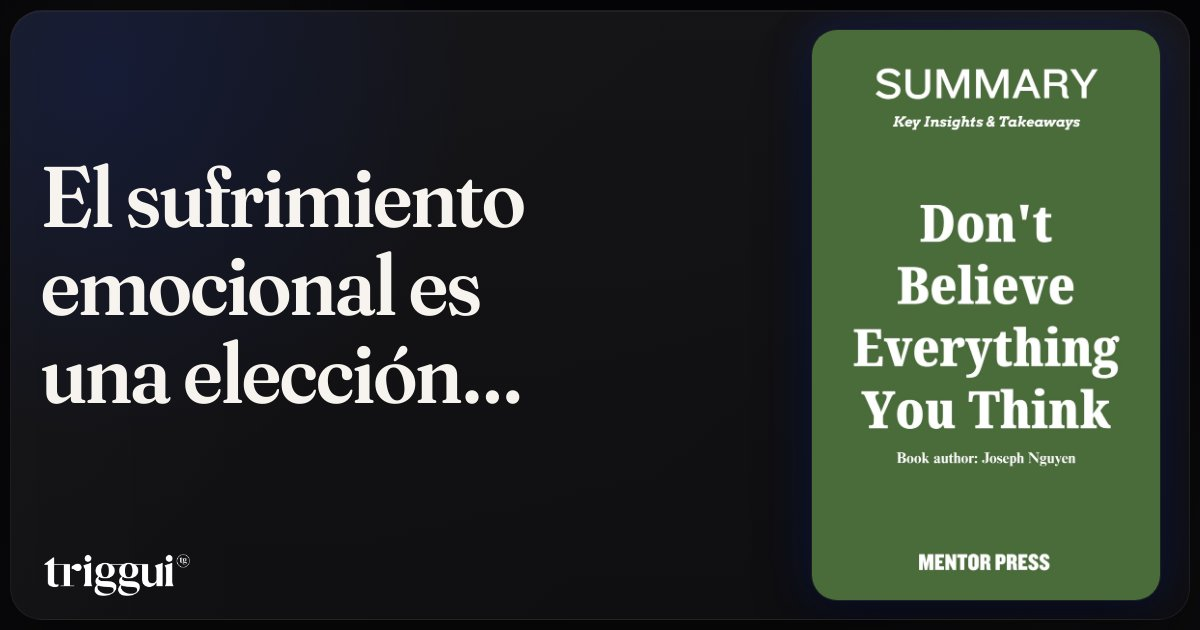
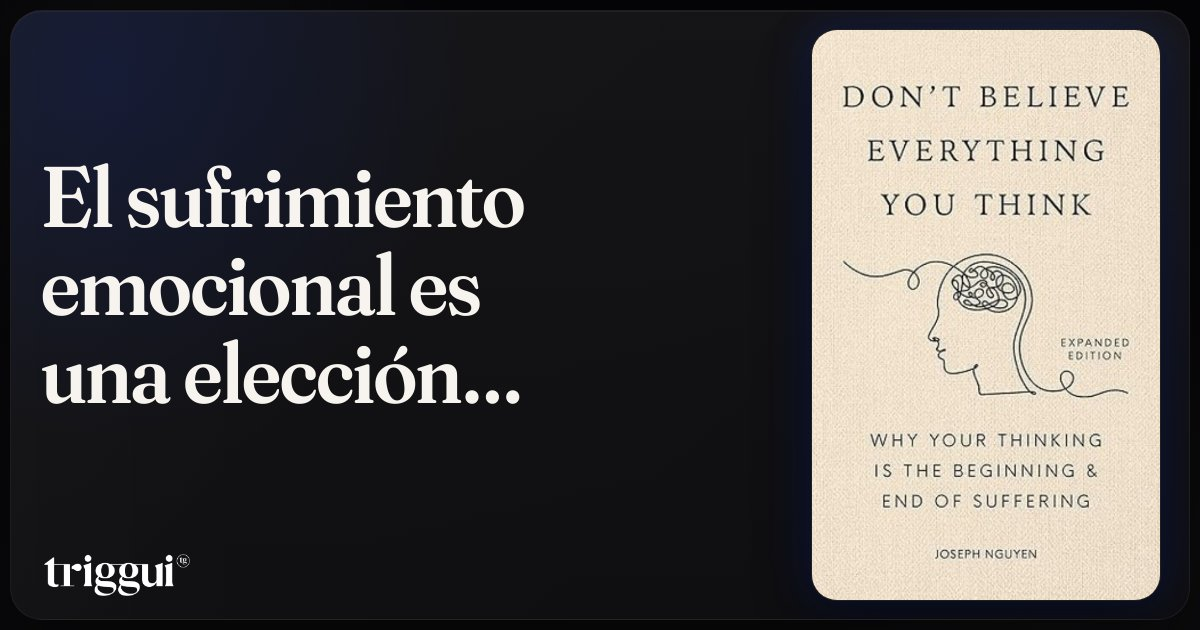
🔁 reconstruir — don-t-believe-everything-you-think

Changed region(s): [[0.6783, 0.0302, 0.9867, 0.9651]]

diff --git a/public/t/don-t-believe-everything-you-think/en/index.html b/public/t/don-t-believe-everything-you-think/en/index.html
@@ -942,7 +942,7 @@ body.tg-tarjeta .tg-cta{display:none !important}
 </div>
 
 <script>
-const state = {"id": "don-t-believe-everything-you-think", "titulo": "Don't Believe Everything You Think", "autor": "Joseph Nguyen", "palabra": "La raíz del sufrimiento: entender y transformar", "descripcion": "La mente humana es un campo de batalla donde el dolor es inevitable, pero el sufrimiento es opcional. Esto significa que, aunque la experiencia del dolor puede ser parte de nuestra vida, la manera en que respondemos a ese dolor define nuestro sufrimiento. Aprender a distinguir entre ambos es fundamental para alcanzar la libertad mental y transformar nuestra experiencia humana.", "palabras": ["libertad", "transformación", "conciencia", "sufrimiento"], "frases": ["🌓 ¿Cuánto tiempo pasas sufriendo por pensamientos que no reflejan la realidad?", "🌬 Respira hondo y pregunta: ¿qué creencias me están limitando en este momento?", "🔭 Imagina un espacio donde el dolor existe, pero el sufrimiento no tiene cabida.", "🌓 Liberarse del sufrimiento es el primer paso hacia una vida plena."], "colores": ["#7E95F1", "#E8C430", "#1C13AE", "#60650B"], "textColors": ["#FFFFFF", "#000000", "#FFFFFF", "#FFFFFF"], "ogImage": "https://app.triggui.com/t/don-t-believe-everything-you-think/og_en.jpg", "portada": "https://is1-ssl.mzstatic.com/image/thumb/Publication221/v4/d7/32/ad/d732ad2d-acd6-b3f1-5b83-457a73304ab3/f4519ffb-28c5-4e56-be24-0e9195bb1556_cover_image.jpg/3000x3000bb.jpg", "tagline": "", "frases_en": ["🌅 Visualize your suffering as a cloud. It blocks the sun but can drift away.", "🏛 Challenge your thoughts. What if they are not the truth?", "🌊 Imagine letting go of the weight of your thoughts, feeling lighter and freer.", "🌓 In every moment, we hold the power to choose how we feel."], "palabras_en": ["freedom", "suffering", "understanding", "pain"], "i18nEn": {"cardTitle": "Understanding Emotional Suffering", "top": "<span class=\"tg-hl\">The human mind is a battleground where pain is inevitable, yet suffering is optional.</span> This means that while the experience of pain may be a part of our lives, how we respond to that pain defines our suffering. Learning to distinguish between the two is crucial for achieving true freedom of mind.", "sub": "How can we achieve mental freedom?", "bot": "<span class=\"tg-hl\">By recognizing that suffering is a mental construct rather than a state imposed by reality, we begin to free ourselves</span>. True mental freedom lies in understanding that we have the power to create our desired life, thus transforming our experience of the world."}, "bocadoEcoPool": [{"phrase": "🌓 ¿Cuánto tiempo pasas sufriendo por pensamientos que no reflejan la realidad?", "rol": "abrir", "animo": 0.5, "origin": "edition_block_es"}, {"phrase": "🌬 Respira hondo y pregunta: ¿qué creencias me están limitando en este momento?", "rol": "profundizar", "animo": 0.3, "origin": "edition_block_es"}, {"phrase": "🔭 Imagina un espacio donde el dolor existe, pero el sufrimiento no tiene cabida.", "rol": "resonar", "animo": 0.4, "origin": "edition_block_es"}, {"phrase": "🌓 Liberarse del sufrimiento es el primer paso hacia una vida plena.", "rol": "aterrizar", "animo": 0.4, "origin": "edition_block_es"}, {"phrase": "✨ El sufrimiento emocional es una elección, no una condena.", "rol": "aterrizar", "animo": 0.4, "origin": "og_phrase_es"}, {"phrase": "⚓ ¿Qué pasaría si dejaras de creer todo lo que piensas?", "rol": "abrir", "animo": 0.5, "origin": "og_phrase_es"}, {"phrase": "🔁 Identifica la raíz de tu sufrimiento. Solo así podrás liberarte.", "rol": "profundizar", "animo": 0.3, "origin": "og_phrase_es"}, {"phrase": "🛡 El dolor puede ser inevitable, pero el sufrimiento es opcional: elige.", "rol": "resonar", "animo": 0.4, "origin": "og_phrase_es"}], "bocadoEcoPool_en": ["🌅 Visualize your suffering as a cloud. It blocks the sun but can drift away.", "🏛 Challenge your thoughts. What if they are not the truth?", "🌊 Imagine letting go of the weight of your thoughts, feeling lighter and freer.", "🌓 In every moment, we hold the power to choose how we feel."], "musica": [{"id": "847718927", "cancion": "Gymnopedie No.1", "artista": "Erik Satie", "album": "Gymnopedie No.1 - Single", "genero": "Alternativa", "dur": 190, "preview": "https://audio-ssl.itunes.apple.com/itunes-assets/AudioPreview211/v4/e8/3f/57/e83f57f3-68a1-f88f-d7ad-741e12e48c6d/mzaf_14596551055740884645.plus.aac.p.m4a", "link": "https://music.apple.com/mx/album/gymnopedie-no-1/847714522?i=847718927&uo=4", "art": "https://is1-ssl.mzstatic.com/image/thumb/Music124/v4/fd/fe/23/fdfe23c0-ed10-4485-a8e1-702a99a8336c/859712317261_cover.tif/600x600bb.jpg", "armonia": 5, "rol": "aterrizar", "pie": "Refugio en calma — pieza elegida a mano para leer sin prisa.", "frase_eco": "respira; la página espera"}, {"id": "1597454856", "cancion": "Spiegel im Spiegel", "artista": "Duo Cassadó", "album": "Arvo Pärt: Spiegel im Spiegel - Single", "genero": "Clásica", "dur": 434, "preview": "https://audio-ssl.itunes.apple.com/itunes-assets/AudioPreview126/v4/46/af/93/46af93c3-afc0-14af-8a82-5dbdbe531b74/mzaf_10824783644429950310.plus.aac.p.m4a", "link": "https://music.apple.com/mx/album/spiegel-im-spiegel/1597454542?i=1597454856&uo=4", "art": "https://is1-ssl.mzstatic.com/image/thumb/Music126/v4/b8/3d/09/b83d09d2-019c-8b88-34a6-9c7d10df33be/190296323201.jpg/600x600bb.jpg", "armonia": 5, "rol": "aterrizar", "pie": "Refugio en calma — pieza elegida a mano para leer sin prisa.", "frase_eco": "respira; la página espera"}, {"id": "508378566", "cancion": "Peer Gynt Suite No. 1, Op. 46. Incidental music to Peer Gynt by Ibsen: Peer Gynt Suite n.º", "artista": "WDR Sinfonieorchester Köln & Eivind Aadland", "album": "Grieg: Complete Symphonic Works, Vol. I", "genero": "Clásica", "dur": 244, "preview": "https://audio-ssl.itunes.apple.com/itunes-assets/AudioPreview115/v4/06/8e/08/068e0886-ebda-9143-00b4-9547d07de54f/mzaf_7803377125337725950.plus.aac.p.m4a", "link": "https://music.apple.com/mx/album/peer-gynt-suite-no-1-op-46-incidental-music-to-peer/508378315?i=508378566&uo=4", "art": "https://is1-ssl.mzstatic.com/image/thumb/Music20/v4/b7/34/c7/b734c7f6-1f61-91b3-0ace-962ce4a55211/cover.jpg/600x600bb.jpg", "armonia": 5, "rol": "profundizar", "pie": "La música clásica puede acompañar la reflexión sobre el sufrimiento y la libertad.", "frase_eco": "🔁 Identifica la raíz de tu sufrimiento. Solo así podrás liberarte."}], "titulo_en": "Don't Believe Everything You Think"};
+const state = {"id": "don-t-believe-everything-you-think", "titulo": "Don't Believe Everything You Think", "autor": "Joseph Nguyen", "palabra": "La raíz del sufrimiento: entender y transformar", "descripcion": "La mente humana es un campo de batalla donde el dolor es inevitable, pero el sufrimiento es opcional. Esto significa que, aunque la experiencia del dolor puede ser parte de nuestra vida, la manera en que respondemos a ese dolor define nuestro sufrimiento. Aprender a distinguir entre ambos es fundamental para alcanzar la libertad mental y transformar nuestra experiencia humana.", "palabras": ["libertad", "transformación", "conciencia", "sufrimiento"], "frases": ["🌓 ¿Cuánto tiempo pasas sufriendo por pensamientos que no reflejan la realidad?", "🌬 Respira hondo y pregunta: ¿qué creencias me están limitando en este momento?", "🔭 Imagina un espacio donde el dolor existe, pero el sufrimiento no tiene cabida.", "🌓 Liberarse del sufrimiento es el primer paso hacia una vida plena."], "colores": ["#7E95F1", "#E8C430", "#1C13AE", "#60650B"], "textColors": ["#FFFFFF", "#000000", "#FFFFFF", "#FFFFFF"], "ogImage": "https://app.triggui.com/t/don-t-believe-everything-you-think/og_en.jpg", "portada": "https://covers.openlibrary.org/b/isbn/9798986406503-L.jpg", "tagline": "", "frases_en": ["🌅 Visualize your suffering as a cloud. It blocks the sun but can drift away.", "🏛 Challenge your thoughts. What if they are not the truth?", "🌊 Imagine letting go of the weight of your thoughts, feeling lighter and freer.", "🌓 In every moment, we hold the power to choose how we feel."], "palabras_en": ["freedom", "suffering", "understanding", "pain"], "i18nEn": {"cardTitle": "Understanding Emotional Suffering", "top": "<span class=\"tg-hl\">The human mind is a battleground where pain is inevitable, yet suffering is optional.</span> This means that while the experience of pain may be a part of our lives, how we respond to that pain defines our suffering. Learning to distinguish between the two is crucial for achieving true freedom of mind.", "sub": "How can we achieve mental freedom?", "bot": "<span class=\"tg-hl\">By recognizing that suffering is a mental construct rather than a state imposed by reality, we begin to free ourselves</span>. True mental freedom lies in understanding that we have the power to create our desired life, thus transforming our experience of the world."}, "bocadoEcoPool": [{"phrase": "🌓 ¿Cuánto tiempo pasas sufriendo por pensamientos que no reflejan la realidad?", "rol": "abrir", "animo": 0.5, "origin": "edition_block_es"}, {"phrase": "🌬 Respira hondo y pregunta: ¿qué creencias me están limitando en este momento?", "rol": "profundizar", "animo": 0.3, "origin": "edition_block_es"}, {"phrase": "🔭 Imagina un espacio donde el dolor existe, pero el sufrimiento no tiene cabida.", "rol": "resonar", "animo": 0.4, "origin": "edition_block_es"}, {"phrase": "🌓 Liberarse del sufrimiento es el primer paso hacia una vida plena.", "rol": "aterrizar", "animo": 0.4, "origin": "edition_block_es"}, {"phrase": "✨ El sufrimiento emocional es una elección, no una condena.", "rol": "aterrizar", "animo": 0.4, "origin": "og_phrase_es"}, {"phrase": "⚓ ¿Qué pasaría si dejaras de creer todo lo que piensas?", "rol": "abrir", "animo": 0.5, "origin": "og_phrase_es"}, {"phrase": "🔁 Identifica la raíz de tu sufrimiento. Solo así podrás liberarte.", "rol": "profundizar", "animo": 0.3, "origin": "og_phrase_es"}, {"phrase": "🛡 El dolor puede ser inevitable, pero el sufrimiento es opcional: elige.", "rol": "resonar", "animo": 0.4, "origin": "og_phrase_es"}], "bocadoEcoPool_en": ["🌅 Visualize your suffering as a cloud. It blocks the sun but can drift away.", "🏛 Challenge your thoughts. What if they are not the truth?", "🌊 Imagine letting go of the weight of your thoughts, feeling lighter and freer.", "🌓 In every moment, we hold the power to choose how we feel."], "musica": [{"id": "847718927", "cancion": "Gymnopedie No.1", "artista": "Erik Satie", "album": "Gymnopedie No.1 - Single", "genero": "Alternativa", "dur": 190, "preview": "https://audio-ssl.itunes.apple.com/itunes-assets/AudioPreview211/v4/e8/3f/57/e83f57f3-68a1-f88f-d7ad-741e12e48c6d/mzaf_14596551055740884645.plus.aac.p.m4a", "link": "https://music.apple.com/mx/album/gymnopedie-no-1/847714522?i=847718927&uo=4", "art": "https://is1-ssl.mzstatic.com/image/thumb/Music124/v4/fd/fe/23/fdfe23c0-ed10-4485-a8e1-702a99a8336c/859712317261_cover.tif/600x600bb.jpg", "armonia": 5, "rol": "aterrizar", "pie": "Refugio en calma — pieza elegida a mano para leer sin prisa.", "frase_eco": "respira; la página espera"}, {"id": "1597454856", "cancion": "Spiegel im Spiegel", "artista": "Duo Cassadó", "album": "Arvo Pärt: Spiegel im Spiegel - Single", "genero": "Clásica", "dur": 434, "preview": "https://audio-ssl.itunes.apple.com/itunes-assets/AudioPreview126/v4/46/af/93/46af93c3-afc0-14af-8a82-5dbdbe531b74/mzaf_10824783644429950310.plus.aac.p.m4a", "link": "https://music.apple.com/mx/album/spiegel-im-spiegel/1597454542?i=1597454856&uo=4", "art": "https://is1-ssl.mzstatic.com/image/thumb/Music126/v4/b8/3d/09/b83d09d2-019c-8b88-34a6-9c7d10df33be/190296323201.jpg/600x600bb.jpg", "armonia": 5, "rol": "aterrizar", "pie": "Refugio en calma — pieza elegida a mano para leer sin prisa.", "frase_eco": "respira; la página espera"}, {"id": "508378566", "cancion": "Peer Gynt Suite No. 1, Op. 46. Incidental music to Peer Gynt by Ibsen: Peer Gynt Suite n.º", "artista": "WDR Sinfonieorchester Köln & Eivind Aadland", "album": "Grieg: Complete Symphonic Works, Vol. I", "genero": "Clásica", "dur": 244, "preview": "https://audio-ssl.itunes.apple.com/itunes-assets/AudioPreview115/v4/06/8e/08/068e0886-ebda-9143-00b4-9547d07de54f/mzaf_7803377125337725950.plus.aac.p.m4a", "link": "https://music.apple.com/mx/album/peer-gynt-suite-no-1-op-46-incidental-music-to-peer/508378315?i=508378566&uo=4", "art": "https://is1-ssl.mzstatic.com/image/thumb/Music20/v4/b7/34/c7/b734c7f6-1f61-91b3-0ace-962ce4a55211/cover.jpg/600x600bb.jpg", "armonia": 5, "rol": "profundizar", "pie": "La música clásica puede acompañar la reflexión sobre el sufrimiento y la libertad.", "frase_eco": "🔁 Identifica la raíz de tu sufrimiento. Solo así podrás liberarte."}], "titulo_en": "Don't Believe Everything You Think"};
 const TG_COVER_SRC = "https://app.triggui.com/t/don-t-believe-everything-you-think/portada.jpg";
 
 /* 🎵 vinilo v4 — morfosis. Material clonado en runtime del primer botón cta (herencia literal).

diff --git a/public/t/don-t-believe-everything-you-think/index.html b/public/t/don-t-believe-everything-you-think/index.html
@@ -941,7 +941,7 @@ body.tg-tarjeta .tg-cta{display:none !important}
 </div>
 
 <script>
-const state = {"id": "don-t-believe-everything-you-think", "titulo": "Don't Believe Everything You Think", "autor": "Joseph Nguyen", "palabra": "La raíz del sufrimiento: entender y transformar", "descripcion": "La mente humana es un campo de batalla donde el dolor es inevitable, pero el sufrimiento es opcional. Esto significa que, aunque la experiencia del dolor puede ser parte de nuestra vida, la manera en que respondemos a ese dolor define nuestro sufrimiento. Aprender a distinguir entre ambos es fundamental para alcanzar la libertad mental y transformar nuestra experiencia humana.", "palabras": ["libertad", "transformación", "conciencia", "sufrimiento"], "frases": ["🌓 ¿Cuánto tiempo pasas sufriendo por pensamientos que no reflejan la realidad?", "🌬 Respira hondo y pregunta: ¿qué creencias me están limitando en este momento?", "🔭 Imagina un espacio donde el dolor existe, pero el sufrimiento no tiene cabida.", "🌓 Liberarse del sufrimiento es el primer paso hacia una vida plena."], "colores": ["#7E95F1", "#E8C430", "#1C13AE", "#60650B"], "textColors": ["#FFFFFF", "#000000", "#FFFFFF", "#FFFFFF"], "ogImage": "https://app.triggui.com/t/don-t-believe-everything-you-think/og.jpg", "portada": "https://is1-ssl.mzstatic.com/image/thumb/Publication221/v4/d7/32/ad/d732ad2d-acd6-b3f1-5b83-457a73304ab3/f4519ffb-28c5-4e56-be24-0e9195bb1556_cover_image.jpg/3000x3000bb.jpg", "tagline": "", "frases_en": ["🌅 Visualize your suffering as a cloud. It blocks the sun but can drift away.", "🏛 Challenge your thoughts. What if they are not the truth?", "🌊 Imagine letting go of the weight of your thoughts, feeling lighter and freer.", "🌓 In every moment, we hold the power to choose how we feel."], "palabras_en": ["freedom", "suffering", "understanding", "pain"], "i18nEn": {"cardTitle": "Understanding Emotional Suffering", "top": "<span class=\"tg-hl\">The human mind is a battleground where pain is inevitable, yet suffering is optional.</span> This means that while the experience of pain may be a part of our lives, how we respond to that pain defines our suffering. Learning to distinguish between the two is crucial for achieving true freedom of mind.", "sub": "How can we achieve mental freedom?", "bot": "<span class=\"tg-hl\">By recognizing that suffering is a mental construct rather than a state imposed by reality, we begin to free ourselves</span>. True mental freedom lies in understanding that we have the power to create our desired life, thus transforming our experience of the world."}, "bocadoEcoPool": [{"phrase": "🌓 ¿Cuánto tiempo pasas sufriendo por pensamientos que no reflejan la realidad?", "rol": "abrir", "animo": 0.5, "origin": "edition_block_es"}, {"phrase": "🌬 Respira hondo y pregunta: ¿qué creencias me están limitando en este momento?", "rol": "profundizar", "animo": 0.3, "origin": "edition_block_es"}, {"phrase": "🔭 Imagina un espacio donde el dolor existe, pero el sufrimiento no tiene cabida.", "rol": "resonar", "animo": 0.4, "origin": "edition_block_es"}, {"phrase": "🌓 Liberarse del sufrimiento es el primer paso hacia una vida plena.", "rol": "aterrizar", "animo": 0.4, "origin": "edition_block_es"}, {"phrase": "✨ El sufrimiento emocional es una elección, no una condena.", "rol": "aterrizar", "animo": 0.4, "origin": "og_phrase_es"}, {"phrase": "⚓ ¿Qué pasaría si dejaras de creer todo lo que piensas?", "rol": "abrir", "animo": 0.5, "origin": "og_phrase_es"}, {"phrase": "🔁 Identifica la raíz de tu sufrimiento. Solo así podrás liberarte.", "rol": "profundizar", "animo": 0.3, "origin": "og_phrase_es"}, {"phrase": "🛡 El dolor puede ser inevitable, pero el sufrimiento es opcional: elige.", "rol": "resonar", "animo": 0.4, "origin": "og_phrase_es"}], "bocadoEcoPool_en": ["🌅 Visualize your suffering as a cloud. It blocks the sun but can drift away.", "🏛 Challenge your thoughts. What if they are not the truth?", "🌊 Imagine letting go of the weight of your thoughts, feeling lighter and freer.", "🌓 In every moment, we hold the power to choose how we feel."], "musica": [{"id": "847718927", "cancion": "Gymnopedie No.1", "artista": "Erik Satie", "album": "Gymnopedie No.1 - Single", "genero": "Alternativa", "dur": 190, "preview": "https://audio-ssl.itunes.apple.com/itunes-assets/AudioPreview211/v4/e8/3f/57/e83f57f3-68a1-f88f-d7ad-741e12e48c6d/mzaf_14596551055740884645.plus.aac.p.m4a", "link": "https://music.apple.com/mx/album/gymnopedie-no-1/847714522?i=847718927&uo=4", "art": "https://is1-ssl.mzstatic.com/image/thumb/Music124/v4/fd/fe/23/fdfe23c0-ed10-4485-a8e1-702a99a8336c/859712317261_cover.tif/600x600bb.jpg", "armonia": 5, "rol": "aterrizar", "pie": "Refugio en calma — pieza elegida a mano para leer sin prisa.", "frase_eco": "respira; la página espera"}, {"id": "1597454856", "cancion": "Spiegel im Spiegel", "artista": "Duo Cassadó", "album": "Arvo Pärt: Spiegel im Spiegel - Single", "genero": "Clásica", "dur": 434, "preview": "https://audio-ssl.itunes.apple.com/itunes-assets/AudioPreview126/v4/46/af/93/46af93c3-afc0-14af-8a82-5dbdbe531b74/mzaf_10824783644429950310.plus.aac.p.m4a", "link": "https://music.apple.com/mx/album/spiegel-im-spiegel/1597454542?i=1597454856&uo=4", "art": "https://is1-ssl.mzstatic.com/image/thumb/Music126/v4/b8/3d/09/b83d09d2-019c-8b88-34a6-9c7d10df33be/190296323201.jpg/600x600bb.jpg", "armonia": 5, "rol": "aterrizar", "pie": "Refugio en calma — pieza elegida a mano para leer sin prisa.", "frase_eco": "respira; la página espera"}, {"id": "508378566", "cancion": "Peer Gynt Suite No. 1, Op. 46. Incidental music to Peer Gynt by Ibsen: Peer Gynt Suite n.º", "artista": "WDR Sinfonieorchester Köln & Eivind Aadland", "album": "Grieg: Complete Symphonic Works, Vol. I", "genero": "Clásica", "dur": 244, "preview": "https://audio-ssl.itunes.apple.com/itunes-assets/AudioPreview115/v4/06/8e/08/068e0886-ebda-9143-00b4-9547d07de54f/mzaf_7803377125337725950.plus.aac.p.m4a", "link": "https://music.apple.com/mx/album/peer-gynt-suite-no-1-op-46-incidental-music-to-peer/508378315?i=508378566&uo=4", "art": "https://is1-ssl.mzstatic.com/image/thumb/Music20/v4/b7/34/c7/b734c7f6-1f61-91b3-0ace-962ce4a55211/cover.jpg/600x600bb.jpg", "armonia": 5, "rol": "profundizar", "pie": "La música clásica puede acompañar la reflexión sobre el sufrimiento y la libertad.", "frase_eco": "🔁 Identifica la raíz de tu sufrimiento. Solo así podrás liberarte."}], "titulo_en": "Don't Believe Everything You Think"};
+const state = {"id": "don-t-believe-everything-you-think", "titulo": "Don't Believe Everything You Think", "autor": "Joseph Nguyen", "palabra": "La raíz del sufrimiento: entender y transformar", "descripcion": "La mente humana es un campo de batalla donde el dolor es inevitable, pero el sufrimiento es opcional. Esto significa que, aunque la experiencia del dolor puede ser parte de nuestra vida, la manera en que respondemos a ese dolor define nuestro sufrimiento. Aprender a distinguir entre ambos es fundamental para alcanzar la libertad mental y transformar nuestra experiencia humana.", "palabras": ["libertad", "transformación", "conciencia", "sufrimiento"], "frases": ["🌓 ¿Cuánto tiempo pasas sufriendo por pensamientos que no reflejan la realidad?", "🌬 Respira hondo y pregunta: ¿qué creencias me están limitando en este momento?", "🔭 Imagina un espacio donde el dolor existe, pero el sufrimiento no tiene cabida.", "🌓 Liberarse del sufrimiento es el primer paso hacia una vida plena."], "colores": ["#7E95F1", "#E8C430", "#1C13AE", "#60650B"], "textColors": ["#FFFFFF", "#000000", "#FFFFFF", "#FFFFFF"], "ogImage": "https://app.triggui.com/t/don-t-believe-everything-you-think/og.jpg", "portada": "https://covers.openlibrary.org/b/isbn/9798986406503-L.jpg", "tagline": "", "frases_en": ["🌅 Visualize your suffering as a cloud. It blocks the sun but can drift away.", "🏛 Challenge your thoughts. What if they are not the truth?", "🌊 Imagine letting go of the weight of your thoughts, feeling lighter and freer.", "🌓 In every moment, we hold the power to choose how we feel."], "palabras_en": ["freedom", "suffering", "understanding", "pain"], "i18nEn": {"cardTitle": "Understanding Emotional Suffering", "top": "<span class=\"tg-hl\">The human mind is a battleground where pain is inevitable, yet suffering is optional.</span> This means that while the experience of pain may be a part of our lives, how we respond to that pain defines our suffering. Learning to distinguish between the two is crucial for achieving true freedom of mind.", "sub": "How can we achieve mental freedom?", "bot": "<span class=\"tg-hl\">By recognizing that suffering is a mental construct rather than a state imposed by reality, we begin to free ourselves</span>. True mental freedom lies in understanding that we have the power to create our desired life, thus transforming our experience of the world."}, "bocadoEcoPool": [{"phrase": "🌓 ¿Cuánto tiempo pasas sufriendo por pensamientos que no reflejan la realidad?", "rol": "abrir", "animo": 0.5, "origin": "edition_block_es"}, {"phrase": "🌬 Respira hondo y pregunta: ¿qué creencias me están limitando en este momento?", "rol": "profundizar", "animo": 0.3, "origin": "edition_block_es"}, {"phrase": "🔭 Imagina un espacio donde el dolor existe, pero el sufrimiento no tiene cabida.", "rol": "resonar", "animo": 0.4, "origin": "edition_block_es"}, {"phrase": "🌓 Liberarse del sufrimiento es el primer paso hacia una vida plena.", "rol": "aterrizar", "animo": 0.4, "origin": "edition_block_es"}, {"phrase": "✨ El sufrimiento emocional es una elección, no una condena.", "rol": "aterrizar", "animo": 0.4, "origin": "og_phrase_es"}, {"phrase": "⚓ ¿Qué pasaría si dejaras de creer todo lo que piensas?", "rol": "abrir", "animo": 0.5, "origin": "og_phrase_es"}, {"phrase": "🔁 Identifica la raíz de tu sufrimiento. Solo así podrás liberarte.", "rol": "profundizar", "animo": 0.3, "origin": "og_phrase_es"}, {"phrase": "🛡 El dolor puede ser inevitable, pero el sufrimiento es opcional: elige.", "rol": "resonar", "animo": 0.4, "origin": "og_phrase_es"}], "bocadoEcoPool_en": ["🌅 Visualize your suffering as a cloud. It blocks the sun but can drift away.", "🏛 Challenge your thoughts. What if they are not the truth?", "🌊 Imagine letting go of the weight of your thoughts, feeling lighter and freer.", "🌓 In every moment, we hold the power to choose how we feel."], "musica": [{"id": "847718927", "cancion": "Gymnopedie No.1", "artista": "Erik Satie", "album": "Gymnopedie No.1 - Single", "genero": "Alternativa", "dur": 190, "preview": "https://audio-ssl.itunes.apple.com/itunes-assets/AudioPreview211/v4/e8/3f/57/e83f57f3-68a1-f88f-d7ad-741e12e48c6d/mzaf_14596551055740884645.plus.aac.p.m4a", "link": "https://music.apple.com/mx/album/gymnopedie-no-1/847714522?i=847718927&uo=4", "art": "https://is1-ssl.mzstatic.com/image/thumb/Music124/v4/fd/fe/23/fdfe23c0-ed10-4485-a8e1-702a99a8336c/859712317261_cover.tif/600x600bb.jpg", "armonia": 5, "rol": "aterrizar", "pie": "Refugio en calma — pieza elegida a mano para leer sin prisa.", "frase_eco": "respira; la página espera"}, {"id": "1597454856", "cancion": "Spiegel im Spiegel", "artista": "Duo Cassadó", "album": "Arvo Pärt: Spiegel im Spiegel - Single", "genero": "Clásica", "dur": 434, "preview": "https://audio-ssl.itunes.apple.com/itunes-assets/AudioPreview126/v4/46/af/93/46af93c3-afc0-14af-8a82-5dbdbe531b74/mzaf_10824783644429950310.plus.aac.p.m4a", "link": "https://music.apple.com/mx/album/spiegel-im-spiegel/1597454542?i=1597454856&uo=4", "art": "https://is1-ssl.mzstatic.com/image/thumb/Music126/v4/b8/3d/09/b83d09d2-019c-8b88-34a6-9c7d10df33be/190296323201.jpg/600x600bb.jpg", "armonia": 5, "rol": "aterrizar", "pie": "Refugio en calma — pieza elegida a mano para leer sin prisa.", "frase_eco": "respira; la página espera"}, {"id": "508378566", "cancion": "Peer Gynt Suite No. 1, Op. 46. Incidental music to Peer Gynt by Ibsen: Peer Gynt Suite n.º", "artista": "WDR Sinfonieorchester Köln & Eivind Aadland", "album": "Grieg: Complete Symphonic Works, Vol. I", "genero": "Clásica", "dur": 244, "preview": "https://audio-ssl.itunes.apple.com/itunes-assets/AudioPreview115/v4/06/8e/08/068e0886-ebda-9143-00b4-9547d07de54f/mzaf_7803377125337725950.plus.aac.p.m4a", "link": "https://music.apple.com/mx/album/peer-gynt-suite-no-1-op-46-incidental-music-to-peer/508378315?i=508378566&uo=4", "art": "https://is1-ssl.mzstatic.com/image/thumb/Music20/v4/b7/34/c7/b734c7f6-1f61-91b3-0ace-962ce4a55211/cover.jpg/600x600bb.jpg", "armonia": 5, "rol": "profundizar", "pie": "La música clásica puede acompañar la reflexión sobre el sufrimiento y la libertad.", "frase_eco": "🔁 Identifica la raíz de tu sufrimiento. Solo así podrás liberarte."}], "titulo_en": "Don't Believe Everything You Think"};
 const TG_COVER_SRC = "./portada.jpg";
 
 /* 🎵 vinilo v4 — morfosis. Material clonado en runtime del primer botón cta (herencia literal).
